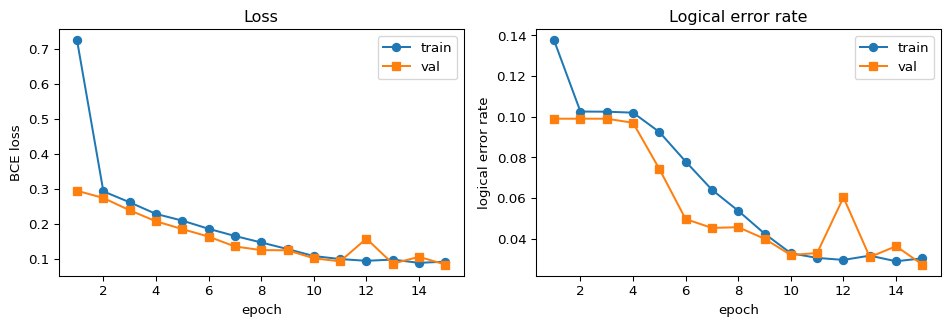
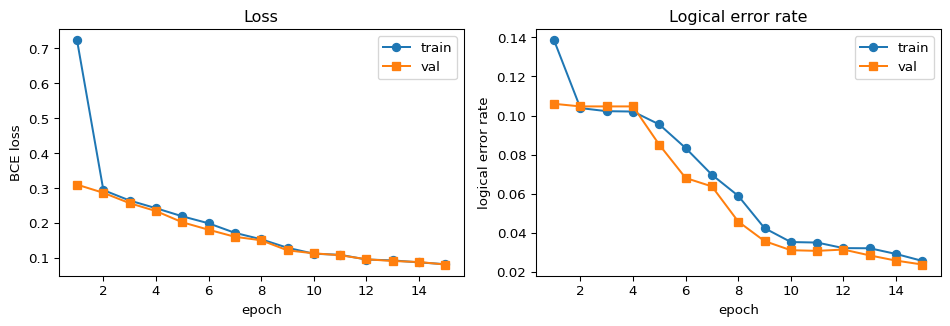
Re-render ROQET week 3 with retuned week-4 preview callout, harden CI deps

diff --git a/docs/posts/project-roqet-03-detector-graph-gnn/index.html b/docs/posts/project-roqet-03-detector-graph-gnn/index.html
@@ -544,8 +544,8 @@ edge weight 분포 : min=3.96, median=5.06, max=6.62</code></pre>
 <span id="cb8-19"><a href="#cb8-19" aria-hidden="true" tabindex="-1"></a><span class="bu">print</span>(<span class="ss">f"raw 논리 오류율  : </span><span class="sc">{</span>observable_flips<span class="sc">.</span>mean()<span class="sc">:.4%}</span><span class="ss">"</span>)</span></code><button title="Copy to Clipboard" class="code-copy-button"><i class="bi"></i></button></pre></div>
 <div class="cell-output cell-output-stdout">
 <pre><code>Stim 샘플링      : 30,000샷 / 3.3 ms
-Data 객체 생성   : 30,000개 / 0.72 s
-raw 논리 오류율  : 10.2100%</code></pre>
+Data 객체 생성   : 30,000개 / 0.71 s
+raw 논리 오류율  : 10.2300%</code></pre>
 </div>
 </div>
 <p>PyG의 <code>DataLoader</code>는 내부적으로 배치 안의 그래프들을 하나의 큰 disjoint 그래프로 묶어 주므로, 우리는 단일 그래프인 것처럼 forward만 짜면 됩니다.</p>
@@ -660,12 +660,12 @@ raw 논리 오류율  : 10.2100%</code></pre>
 <span id="cb14-28"><a href="#cb14-28" aria-hidden="true" tabindex="-1"></a>        <span class="bu">print</span>(<span class="ss">f"epoch </span><span class="sc">{</span>epoch<span class="sc">:02d}</span><span class="ss"> | train loss </span><span class="sc">{</span>tr_loss<span class="sc">:.4f}</span><span class="ss"> / LER </span><span class="sc">{</span>tr_ler<span class="sc">:.4%}</span><span class="ss">"</span></span>
 <span id="cb14-29"><a href="#cb14-29" aria-hidden="true" tabindex="-1"></a>              <span class="ss">f" | val loss </span><span class="sc">{</span>va_loss<span class="sc">:.4f}</span><span class="ss"> / LER </span><span class="sc">{</span>va_ler<span class="sc">:.4%}</span><span class="ss">"</span>)</span></code><button title="Copy to Clipboard" class="code-copy-button"><i class="bi"></i></button></pre></div>
 <div class="cell-output cell-output-stdout">
-<pre><code>epoch 01 | train loss 0.7239 / LER 13.7481% | val loss 0.2947 / LER 9.9000%
-epoch 03 | train loss 0.2618 / LER 10.2444% | val loss 0.2390 / LER 9.9000%
-epoch 06 | train loss 0.1862 / LER 7.7963% | val loss 0.1638 / LER 4.9667%
-epoch 09 | train loss 0.1283 / LER 4.2519% | val loss 0.1248 / LER 4.0000%
-epoch 12 | train loss 0.0947 / LER 2.9593% | val loss 0.1581 / LER 6.0333%
-epoch 15 | train loss 0.0924 / LER 3.0407% | val loss 0.0841 / LER 2.7333%</code></pre>
+<pre><code>epoch 01 | train loss 0.7224 / LER 13.8481% | val loss 0.3100 / LER 10.6000%
+epoch 03 | train loss 0.2645 / LER 10.2222% | val loss 0.2569 / LER 10.4667%
+epoch 06 | train loss 0.1994 / LER 8.3333% | val loss 0.1810 / LER 6.8000%
+epoch 09 | train loss 0.1294 / LER 4.2296% | val loss 0.1220 / LER 3.5667%
+epoch 12 | train loss 0.0959 / LER 3.2074% | val loss 0.0965 / LER 3.1333%
+epoch 15 | train loss 0.0824 / LER 2.5519% | val loss 0.0815 / LER 2.3667%</code></pre>
 </div>
 </div>
 </section>
@@ -725,9 +725,9 @@ epoch 15 | train loss 0.0924 / LER 3.0407% | val loss 0.0841 / LER 2.7333%</code
 <span id="cb17-10"><a href="#cb17-10" aria-hidden="true" tabindex="-1"></a><span class="bu">print</span>(<span class="ss">f"MWPM (PyMatching)        : </span><span class="sc">{</span>mwpm_ler<span class="sc">:.4%}</span><span class="ss">"</span>)</span>
 <span id="cb17-11"><a href="#cb17-11" aria-hidden="true" tabindex="-1"></a><span class="bu">print</span>(<span class="ss">f"TinyGraphDecoder (val)   : </span><span class="sc">{</span>gnn_ler<span class="sc">:.4%}</span><span class="ss">"</span>)</span></code><button title="Copy to Clipboard" class="code-copy-button"><i class="bi"></i></button></pre></div>
 <div class="cell-output cell-output-stdout">
-<pre><code>raw (디코더 없음)        : 10.2100%
-MWPM (PyMatching)        : 1.6433%
-TinyGraphDecoder (val)   : 2.7333%</code></pre>
+<pre><code>raw (디코더 없음)        : 10.2300%
+MWPM (PyMatching)        : 1.6667%
+TinyGraphDecoder (val)   : 2.3667%</code></pre>
 </div>
 </div>
 <div id="cell-comparison-table" class="cell" data-execution_count="11">
@@ -748,17 +748,17 @@ TinyGraphDecoder (val)   : 2.7333%</code></pre>
 <tbody>
 <tr class="odd">
 <td style="text-align: left;">디코더 없음 (raw)</td>
-<td style="text-align: left;">10.21%</td>
+<td style="text-align: left;">10.23%</td>
 <td style="text-align: left;">신드롬을 그냥 무시한 경우</td>
 </tr>
 <tr class="even">
 <td style="text-align: left;">MWPM (PyMatching)</td>
-<td style="text-align: left;">1.64%</td>
+<td style="text-align: left;">1.67%</td>
 <td style="text-align: left;">그래프-알고리즘 baseline</td>
 </tr>
 <tr class="odd">
 <td style="text-align: left;">TinyGraphDecoder (본 포스트)</td>
-<td style="text-align: left;">2.73%</td>
+<td style="text-align: left;">2.37%</td>
 <td style="text-align: left;">15 epoch, 엣지 피처 미사용</td>
 </tr>
 </tbody>
